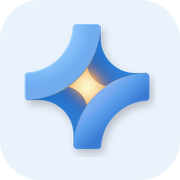
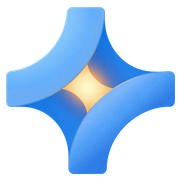
Ship company-focused SERP metadata and VPS www consolidation.
Homepage EN/FR/AR titles match the Moroccan technology company positioning, WebSite alternate names are Nexa Morocco/Maroc, and the transparent favicon stays on stable /icon-48.png paths. Add Nginx deploy kit for apex hosting and www→nexa.ma 301 with ACME preserved.

Changed region(s): [[0.0278, 0.0278, 0.9722, 0.9722]]

diff --git a/lib/seo.ts b/lib/seo.ts
@@ -111,21 +111,21 @@ export { absoluteCanonical };
 
 export const homeSeo = {
   en: {
-    title: "Nexa Morocco — Connected Digital Services Ecosystem",
+    title: "Nexa — Moroccan Technology Company",
     description:
-      "Nexa is a Moroccan technology company building connected digital services across accommodation, mobility, delivery, payments, groceries, commerce and careers.",
+      "Nexa is a Moroccan technology company building connected digital services for everyday life. Discover our ecosystem, starting with Nexa Stays.",
     path: "/",
   },
   fr: {
-    title: "Nexa Maroc — Écosystème de services numériques connectés",
+    title: "Nexa — Entreprise technologique marocaine",
     description:
-      "Nexa est une entreprise technologique marocaine qui construit des services numériques spécialisés pour le quotidien — hébergement, mobilité, livraison, paiements, courses, commerce et emploi.",
+      "Nexa est une entreprise technologique marocaine qui développe des services numériques connectés pour le quotidien. Découvrez notre écosystème, à commencer par Nexa Stays.",
     path: "/fr/",
   },
   ar: {
-    title: "نكسا المغرب — نظام بيئي للخدمات الرقمية المترابطة",
+    title: "نكسا — شركة تكنولوجيا مغربية",
     description:
-      "نكسا شركة تكنولوجيا مغربية تبني خدمات رقمية متخصصة للحياة اليومية — الإقامة والتنقل والتوصيل والمدفوعات والبقالة والتجارة والتوظيف.",
+      "نكسا شركة تكنولوجيا مغربية تبني خدمات رقمية مترابطة للحياة اليومية. اكتشف منظومتنا، بدءًا من نكسا ستايز.",
     path: "/ar/",
   },
 } as const satisfies Record<string, SeoEntry>;

diff --git a/lib/entity.ts b/lib/entity.ts
@@ -16,7 +16,7 @@ export const NEXA_ENTITY_DESCRIPTION =
 
 export const NEXA_SITE_NAME = "Nexa";
 export const NEXA_ORIGIN = "https://nexa.ma";
-/** Prefer PNG for crawlers; blue parent mark. */
+/** Prefer transparent PNG for crawlers; stable path — do not rotate. */
 export const NEXA_LOGO = `${NEXA_ORIGIN}/icon-512.png`;
 export const ORGANIZATION_ID = `${NEXA_ORIGIN}/#organization`;
 export const WEBSITE_ID = `${NEXA_ORIGIN}/#website`;
@@ -71,6 +71,7 @@ export function getWebSiteJsonLd() {
     "@type": "WebSite",
     "@id": WEBSITE_ID,
     name: NEXA_SITE_NAME,
+    alternateName: ["Nexa Morocco", "Nexa Maroc"],
     url: NEXA_ORIGIN,
     description: NEXA_ENTITY_DESCRIPTION,
     publisher: { "@id": ORGANIZATION_ID },

diff --git a/app/layout.tsx b/app/layout.tsx
@@ -26,8 +26,7 @@ export const metadata: Metadata = {
     absolute: homeSeo.en.title,
     template: "%s | Nexa",
   },
-  // Single icon set (built by `npm run favicons`). 48px first: Google Search
-  // picks the 48×48 PNG for result favicons.
+  // Stable transparent favicon URLs — do not rotate filenames (Google caches by URL).
   icons: {
     icon: [
       { url: "/icon-48.png", type: "image/png", sizes: "48x48" },

diff --git a/docs/asset-notes.md b/docs/asset-notes.md
@@ -18,9 +18,18 @@ The site is a static export with `images.unoptimized`, so nothing is resized or 
 
 ## Favicons
 
-Built from `public/brand/nexa.png` by `npm run favicons`: blue mark on a pale rounded tile (`#eaf2fc`) so it stays recognisable at 16–48px. Google Search needs a clear square at 48px (`icon-48.png` is listed first in `app/layout.tsx`); sparse transparent marks fall back to the globe icon. One icon set only — no `app/icon.png` file conventions, no manual `<link>`s.
+Built from `public/brand/nexa-favicon-transparent.png` by `npm run favicons`: transparent blue mark (no tile). **Stable public URLs — do not rotate filenames:**
 
-`vercel.json` 301s `www.nexa.ma` → `nexa.ma` so Google associates the favicon with a single host. After deploy, request indexing for `https://nexa.ma/` in Search Console; the SERP icon updates on Google's recrawl schedule.
+| URL | Size |
+|-----|------|
+| `/icon-48.png` | 48×48 (listed first; Google Search preferred) |
+| `/icon.png` | 32×32 |
+| `/icon-192.png` | 192×192 |
+| `/icon-512.png` | 512×512 (also `Organization.logo` / `NEXA_LOGO`) |
+| `/apple-icon.png` | 180×180 |
+| `/favicon.ico` | 16 + 32 + 48 |
+
+Hostname consolidation is **Nginx on the VPS** (`www` → `https://nexa.ma$request_uri`), not `vercel.json`. After deploy, request indexing for `https://nexa.ma/` in Search Console; the SERP icon updates on Google's recrawl schedule.
 
 ## Design rules (locked)
 

diff --git a/deploy/vps/README.md b/deploy/vps/README.md
@@ -1,0 +1,34 @@
+# Corporate website VPS deployment
+
+Static export only; no runtime secrets or database needed.
+
+- Host: `nexa@72.60.133.228`
+- Releases: `/opt/nexa/nexageneral-web/releases/<stamp>-<sha>`
+- Current symlink: `/opt/nexa/nexageneral-web/current`
+- Base activation: `/opt/nexa/nexageneral-web/deploy/activate.sh`
+- SEO redirect activation: `/opt/nexa/nexageneral-web/deploy/activate-seo.sh` (installs `nexa-corporate-seo.conf`: apex site + `www` → `https://nexa.ma$request_uri` with ACME preserved)
+
+## Activate base site
+
+```sh
+ssh nexa@72.60.133.228
+sudo bash /opt/nexa/nexageneral-web/deploy/activate.sh
+```
+
+## Activate www → apex SEO redirect
+
+After TLS certs exist for both `nexa.ma` and `www.nexa.ma`:
+
+```sh
+sudo bash /opt/nexa/nexageneral-web/deploy/activate-seo.sh
+```
+
+The script backs up `/etc/nginx`, validates, reloads, and rolls back on failure. It does not touch Nexa Stays configs.
+
+## DNS (Cloudflare)
+
+Point apex and www at the VPS (or Cloudflare proxy origin `72.60.133.228`). Preserve MX, TXT, CAA.
+
+## Rollback
+
+Remove only `/etc/nginx/sites-enabled/nexa-corporate`, validate Nginx, reload. Restore DNS if needed. Keep release files. Do not alter Nexa Stays or firewall rules.
